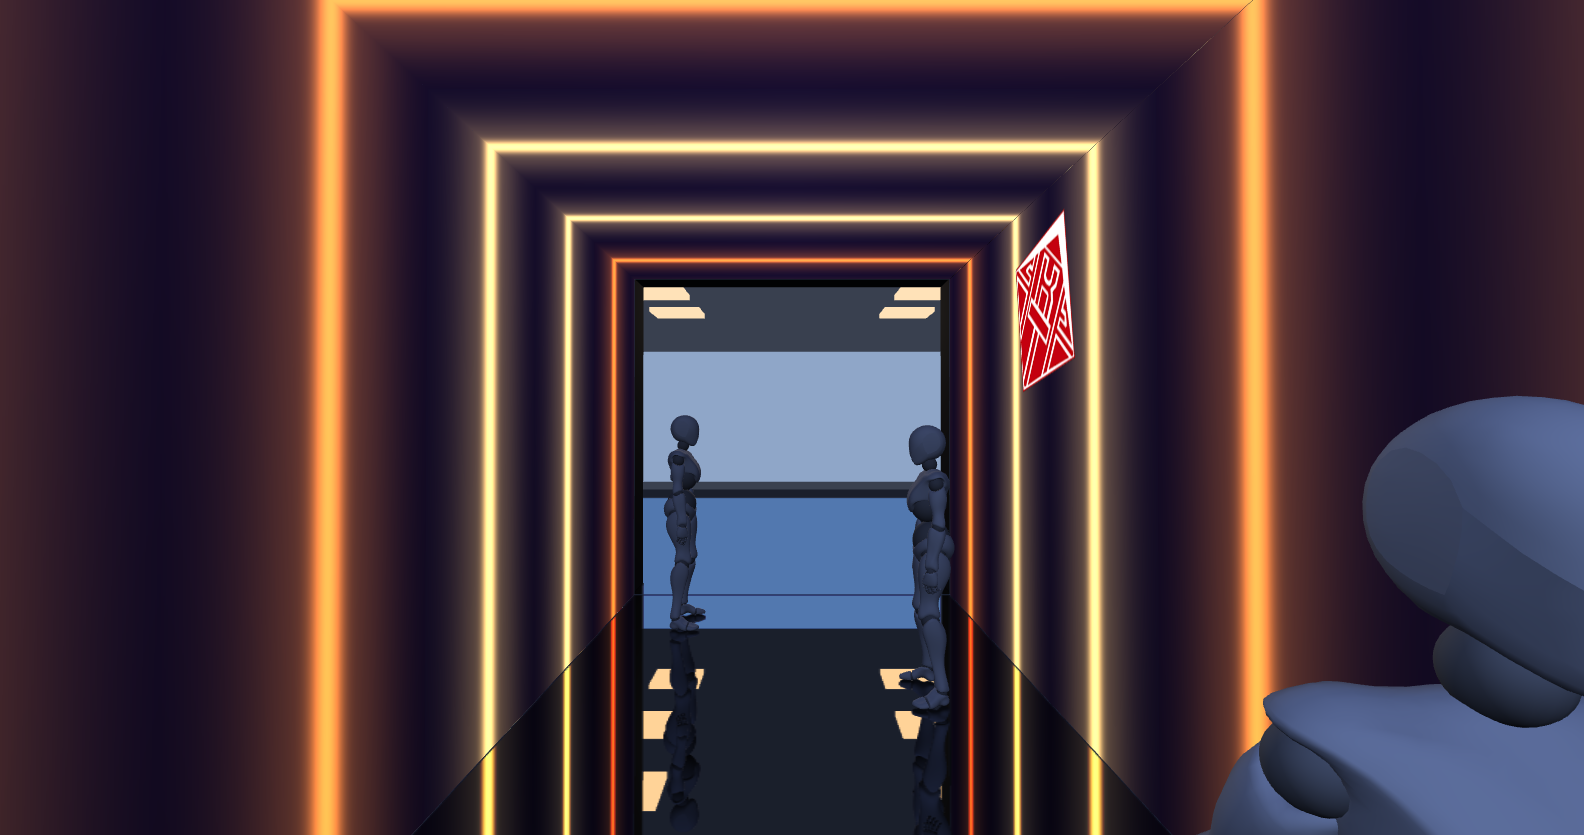
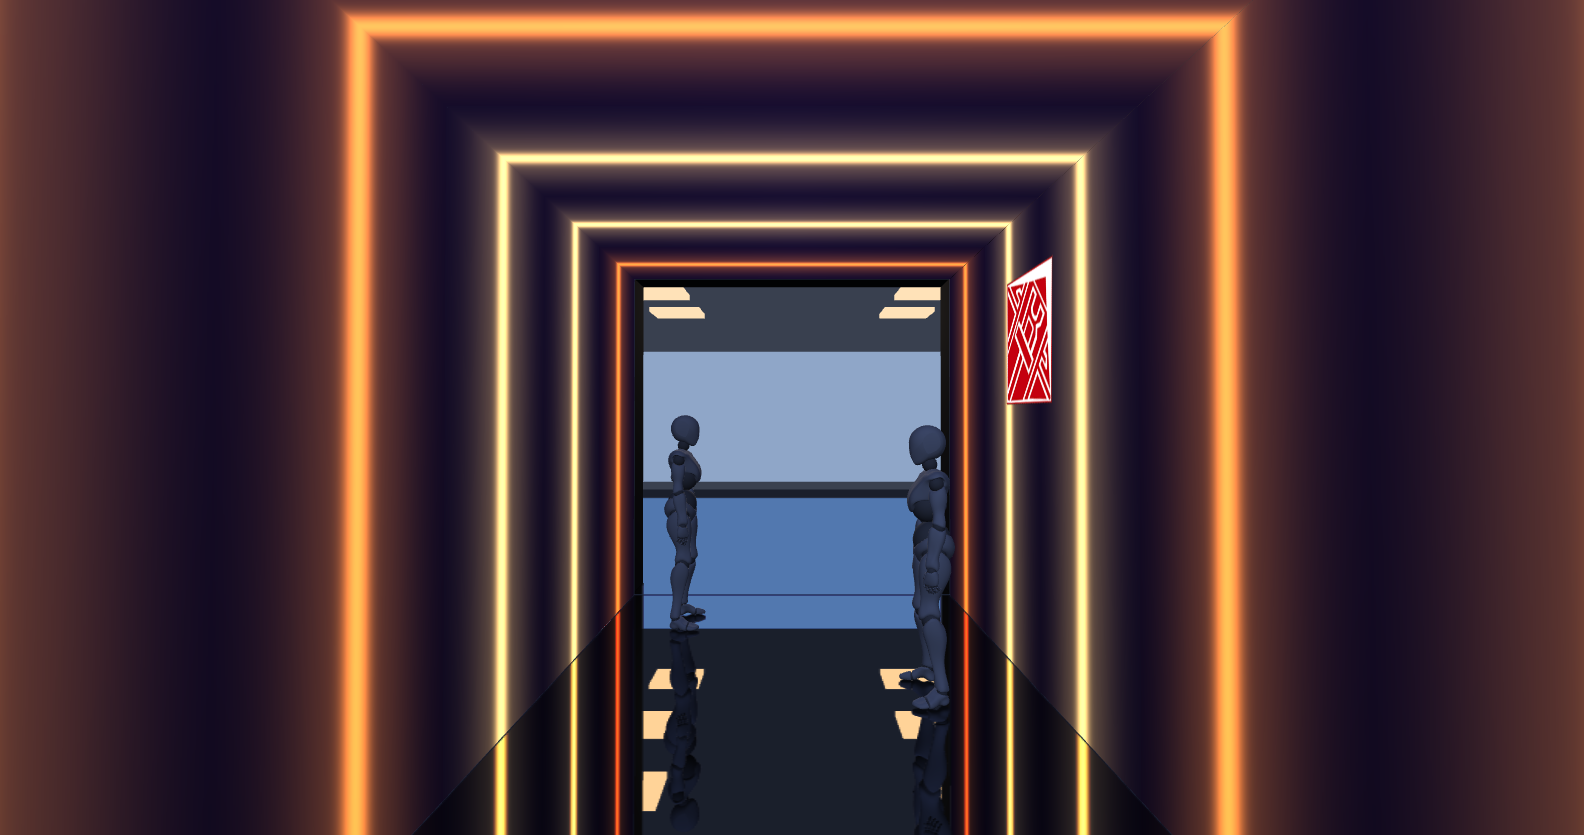
Chạm tường mức 1: sóng lan từ điểm chạm và bóng người phát sáng
- Compositor.updateTouches: suy ra điểm chạm từ vị trí người (đứng sát tường dưới ngưỡng = chạm), tuổi đếm từ lúc bắt đầu chạm; cả cửa sổ điều khiển lẫn cửa sổ xuất đều tính
- Chế độ 'touch': chấm sáng tại điểm chạm + ba vòng sóng lặp liên tục, lan tiếp sang trần và tường kia
- Chế độ 'silhouette': bóng người in lên mặt LED gần nhất, có quầng, kèm vệt trên trần
- Mục Tương tác thêm ngưỡng chạm và chiều cao điểm chạm; dự án mẫu dùng bóng người ở cảnh 2 và sóng chạm ở cảnh 5
- Bộ ảnh giới thiệu thêm hai ảnh tương tác; README mô tả đủ 5 kiểu phản ứng

diff --git a/src/render/compositor.ts b/src/render/compositor.ts
@@ -192,11 +192,14 @@ void main() {
 `;
 
 const MAX_PERSONS = 8;
+const MAX_TOUCH = 8;
 // Lớp tương tác: quầng theo khoảng cách 3D thật từ điểm trên bề mặt tới người (tâm ngang ngực),
 // sóng lan từ chân người theo tuổi của người đó. Chế độ 1/2 cộng sáng, 3 nhân (mặt nạ hé mở).
 const INTERACT_FRAG = /* glsl */ `
 ${COMMON}
 uniform vec3 uPersons[${MAX_PERSONS}]; // x, d, tuổi (s)
+uniform vec4 uTouch[${MAX_TOUCH}];     // u, v (toạ độ hầm), tuổi (s), màn (0 trái, 1 phải)
+uniform int uTouchCount;
 uniform int uCount;
 uniform int uMode;
 uniform vec3 uColor;
@@ -204,6 +207,59 @@ uniform float uRadius;
 uniform float uIntensity;
 uniform float uSpeed;
 void main() {
+  float u, v;
+  tunnel(vWorld, vScreen, u, v);
+  float P = 2.0 * uDims.y + uDims.x;
+
+  // ---- sóng lan từ ĐIỂM CHẠM trên tường: vòng tròn nở ra trong hệ toạ độ hầm nên lan tiếp sang trần ----
+  if (uMode == 4) {
+    float wave = 0.0;
+    for (int i = 0; i < ${MAX_TOUCH}; i++) {
+      if (i >= uTouchCount) break;
+      vec4 t = uTouch[i];
+      float dv = v - t.y;
+      dv = dv - P * floor(dv / P + 0.5);
+      float dist = length(vec2(u - t.x, dv));
+      float R = max(0.5, uRadius);
+      // ba vòng nối nhau, lặp liên tục chừng nào còn chạm: vòng nở tới bán kính R rồi vòng mới bắt đầu
+      for (int k = 0; k < 3; k++) {
+        float r = mod(t.z * uSpeed + float(k) * R / 3.0, R);
+        float ring = exp(-pow((dist - r) / 0.2, 2.0)) * (1.0 - r / R);
+        wave = max(wave, ring);
+      }
+      // chấm sáng ngay tại điểm chạm để thấy rõ chỗ tay đặt
+      wave = max(wave, exp(-pow(dist / 0.22, 2.0)) * 0.9);
+    }
+    gl_FragColor = vec4(uColor * wave * uIntensity, 1.0);
+    return;
+  }
+
+  // ---- bóng người phát sáng in lên mặt LED gần nhất ----
+  if (uMode == 5) {
+    float W = uDims.x, H = uDims.y;
+    float silh = 0.0;
+    for (int i = 0; i < ${MAX_PERSONS}; i++) {
+      if (i >= uCount) break;
+      vec3 pp = uPersons[i];
+      vec2 c;
+      vec2 half2;
+      float near;
+      if (vScreen < 0.5) { c = vec2(pp.y, 0.95); half2 = vec2(0.3, 0.78); near = pp.x + W * 0.5; }
+      else if (vScreen < 1.5) { c = vec2(pp.y, H + W + (H - 0.95)); half2 = vec2(0.3, 0.78); near = W * 0.5 - pp.x; }
+      else if (vScreen < 2.5) { c = vec2(pp.y, H + (pp.x + W * 0.5)); half2 = vec2(0.3, 0.3); near = max(0.0, H - 1.75); }
+      else continue;
+      float k = exp(-max(0.0, near) / max(0.2, uRadius));
+      vec2 q = abs(vec2(u, v) - c) - half2;
+      float sd = length(max(q, 0.0)) + min(max(q.x, q.y), 0.0);
+      // thân bóng + quầng mờ toả ra ngoài cho ra vẻ "phát sáng"
+      float body = smoothstep(0.34, -0.05, sd);
+      float halo = exp(-max(sd, 0.0) / 0.45) * 0.45;
+      silh = max(silh, k * min(1.0, body + halo));
+    }
+    gl_FragColor = vec4(uColor * silh * uIntensity, 1.0);
+    return;
+  }
+
   float glow = 0.0;
   float ripple = 0.0;
   for (int i = 0; i < ${MAX_PERSONS}; i++) {
@@ -332,6 +388,8 @@ class Layer {
         ...comp.sharedUniforms(),
         uPersons: { value: Array.from({ length: MAX_PERSONS }, () => new THREE.Vector3()) },
         uCount: { value: 0 },
+        uTouch: { value: Array.from({ length: MAX_TOUCH }, () => new THREE.Vector4()) },
+        uTouchCount: { value: 0 },
         uMode: { value: 1 },
         uColor: { value: new THREE.Color('#fff') },
         uRadius: { value: 1.5 },
@@ -512,11 +570,17 @@ void main() {
       const n = Math.min(MAX_PERSONS, persons.length);
       for (let i = 0; i < n; i++) arr[i].set(persons[i].x, persons[i].d, persons[i].age);
       u.uCount.value = n;
-      u.uMode.value = { spotlight: 1, ripple: 2, reveal: 3 }[ia.mode as 'spotlight' | 'ripple' | 'reveal'];
+      const touches = this.comp.touches;
+      const tarr = u.uTouch.value as THREE.Vector4[];
+      const tn = Math.min(MAX_TOUCH, touches.length);
+      for (let k = 0; k < tn; k++) tarr[k].set(touches[k].u, touches[k].v, touches[k].age, touches[k].side);
+      u.uTouchCount.value = tn;
+      u.uMode.value = { spotlight: 1, ripple: 2, reveal: 3, touch: 4, silhouette: 5 }[ia.mode as 'spotlight' | 'ripple' | 'reveal' | 'touch' | 'silhouette'];
       (u.uColor.value as THREE.Color).set(ia.color);
       u.uRadius.value = Math.max(0.2, ia.radius);
       u.uIntensity.value = ia.intensity;
       u.uSpeed.value = ia.speed;
+      // 'reveal' là mặt nạ (nhân vào hình nền); các kiểu còn lại cộng sáng lên trên
       const multiply = ia.mode === 'reveal';
       this.interactMat.blendSrc = multiply ? THREE.ZeroFactor : THREE.OneFactor;
       this.interactMat.blendDst = multiply ? THREE.SrcColorFactor : THREE.OneFactor;
@@ -621,6 +685,9 @@ export class Compositor {
   project: Project;
   /** người đang theo dõi (toạ độ sàn); cập nhật mỗi khung từ nguồn tracking hoặc từ sync */
   persons: Person[] = [];
+  /** điểm chạm tường suy ra từ vị trí người (mức 1: đứng sát tường = chạm) */
+  touches: { u: number; v: number; age: number; side: number }[] = [];
+  private readonly touchAge = new Map<string, number>();
   get interactionOn(): boolean { return this.project.interaction?.enabled ?? false; }
   private readonly uDims = new THREE.Vector3();
   private readonly uFacade = new THREE.Vector2();
@@ -725,6 +792,35 @@ export class Compositor {
       this.transitionMesh.geometry = g;
       this.resize();
     }
+  }
+
+  /**
+   * Suy ra điểm chạm tường từ vị trí người. Camera thường không đo được khoảng cách nên quy ước:
+   * người đứng trong cổng và cách một mặt tường dưới `touch.distance` mét thì coi như đang chạm mặt đó.
+   * Tuổi của điểm chạm đếm từ lúc bắt đầu chạm, để vẽ sóng lan.
+   */
+  updateTouches(dt: number): void {
+    const cfg = this.project.interaction?.touch;
+    if (!cfg || !this.interactionOn) { this.touches = []; this.touchAge.clear(); return; }
+    const { width: W, height: H, length: L } = this.project.portal;
+    const out: { u: number; v: number; age: number; side: number }[] = [];
+    const seen = new Set<string>();
+    for (const p of this.persons) {
+      if (p.d < -0.2 || p.d > L + 0.2) continue;
+      const dl = p.x + W / 2;
+      const dr = W / 2 - p.x;
+      const left = dl <= dr;
+      const near = left ? dl : dr;
+      if (near > cfg.distance) continue;
+      const key = `${p.id}:${left ? 'L' : 'R'}`;
+      seen.add(key);
+      const age = (this.touchAge.get(key) ?? 0) + dt;
+      this.touchAge.set(key, age);
+      const h = Math.max(0.1, Math.min(H - 0.1, cfg.height));
+      out.push({ u: p.d, v: left ? h : H + W + (H - h), age, side: left ? 0 : 1 });
+    }
+    for (const key of [...this.touchAge.keys()]) if (!seen.has(key)) this.touchAge.delete(key);
+    this.touches = out;
   }
 
   render(renderer: THREE.WebGLRenderer, cursor: Cursor | null, media: MediaLookup, playing: boolean): void {

diff --git a/src/model.ts b/src/model.ts
@@ -175,12 +175,14 @@ export const TRANSITION_LABEL: Record<TransitionType, string> = {
 export const TRANSITION_INDEX: Record<TransitionType, number> = { cut: 0, fade: 1, wipeIn: 2, wipeOut: 3, iris: 4, dissolve: 5, flash: 6, blinds: 7 };
 
 /** Cách một cảnh phản ứng với vị trí người trong cổng. */
-export type InteractMode = 'none' | 'spotlight' | 'ripple' | 'reveal';
+export type InteractMode = 'none' | 'spotlight' | 'ripple' | 'reveal' | 'touch' | 'silhouette';
 export const INTERACT_LABEL: Record<InteractMode, string> = {
   none: 'Không',
   spotlight: 'Quầng sáng theo người',
   ripple: 'Sóng lan từ chân người',
   reveal: 'Chỉ hé mở quanh người',
+  touch: 'Sóng lan khi chạm tường',
+  silhouette: 'Bóng người phát sáng',
 };
 export interface SceneInteract {
   mode: InteractMode;
@@ -229,9 +231,18 @@ export interface CameraCalib {
   floor: [number, number][];
 }
 
+/** "Chạm tường" mức 1: camera thường không đo được khoảng cách, nên coi là chạm khi người đứng sát tường. */
+export interface TouchConfig {
+  /** đứng gần tường dưới ngưỡng này (m) thì tính là chạm */
+  distance: number;
+  /** chiều cao điểm chạm trên tường (m) */
+  height: number;
+}
+
 export interface InteractionConfig {
   enabled: boolean;
   source: TrackSource;
+  touch: TouchConfig;
   wsUrl: string;
   camera: {
     deviceId: string;
@@ -252,6 +263,7 @@ export const defaultInteraction = (): InteractionConfig => ({
   source: 'sim',
   wsUrl: 'ws://127.0.0.1:8765',
   camera: { deviceId: '', flipX: false, minScore: 0.45, calib: null },
+  touch: { distance: 0.5, height: 1.2 },
   sim: { walkers: 2 },
 });
 
@@ -528,7 +540,7 @@ export function defaultProject(): Project {
         makeOverlay('text', { screens: wallsOnly('right'), zone: 'right', text: 'KIẾN TẠO\nNHỮNG\nKHÔNG GIAN\nTỐT ĐẸP HƠN', size: 0.62 }),
         ...facadeSet('#ffffff'),
       ],
-      interact: { ...defaultInteract(), mode: 'spotlight', color: '#9df3ff', radius: 1.4, intensity: 0.6 },
+      interact: { ...defaultInteract(), mode: 'silhouette', color: '#9df3ff', radius: 1.1, intensity: 1.4 },
     }),
     makeScene('portal', {
       name: '3. Vùng cổng thời gian', duration: 14, transition: 'iris', transitionDuration: 2.5,
@@ -553,6 +565,7 @@ export function defaultProject(): Project {
         ...facadeSet('#ffffff'),
         makeOverlay('timeline', { color: '#ffffff', accent: '#ffe27a', size: 0.5, speed: 0.06 }),
       ],
+      interact: { ...defaultInteract(), mode: 'touch', color: '#ffe27a', radius: 3.5, intensity: 1.2, speed: 2 },
       transition: 'fade',
       transitionDuration: 2,
     }),

diff --git a/src/ui.ts b/src/ui.ts
@@ -846,7 +846,13 @@ export function buildUi(app: App, hooks: Hooks): Ui {
           : 'Chưa hiệu chỉnh: camera nhận diện được nhưng chưa biết người đứng ở đâu trên sàn.'),
       );
     }
-    parts.push(trackStatus);
+    parts.push(
+      el('h2', {}, 'Chạm tường (mức 1)'),
+      rangeRow('Coi là chạm khi cách tường dưới', ia.touch.distance, 0.2, 1.5, 0.05, (v) => { ia.touch.distance = v; change(); }),
+      rangeRow('Chiều cao điểm chạm (m)', ia.touch.height, 0.3, 2.5, 0.05, (v) => { ia.touch.height = v; change(); }),
+      el('div', { class: 'hint' }, 'Camera thường không đo được khoảng cách, nên quy ước: người đứng sát tường là đang chạm. Dùng cho hiệu ứng "Sóng lan khi chạm tường".'),
+      trackStatus,
+    );
     secInteract.replaceChildren(el('div', {}, ...parts));
   }
 

diff --git a/src/output.ts b/src/output.ts
@@ -87,10 +87,14 @@ export function startOutput(): void {
   // Tay cầm cho tự kiểm tra (electron/selftest.cjs) và gỡ lỗi
   (window as unknown as { ledportalOutput: unknown }).ledportalOutput = { t: () => currentTime().t, get project() { return project; } };
 
+  let lastFrame = performance.now();
+
   function frame(): void {
     requestAnimationFrame(frame);
     if (!project || !compositor) return;
     const { t, playing } = currentTime();
+    compositor.updateTouches(Math.min(0.1, (performance.now() - lastFrame) / 1000));
+    lastFrame = performance.now();
     const cursor = state?.blackout ? null : locate(project, t);
     compositor.render(renderer, cursor, media.lookup, playing);
     const active = new Set<string>();

diff --git a/src/storage.ts b/src/storage.ts
@@ -35,7 +35,11 @@ export function normalize(raw: unknown): Project | null {
     portal,
     layout: r.layout ?? defaultLayout(portal),
     loop: active.loop,
-    interaction: { ...defaultInteraction(), ...(r.interaction ?? {}), camera: { ...defaultInteraction().camera, ...(r.interaction?.camera ?? {}) } },
+    interaction: {
+      ...defaultInteraction(), ...(r.interaction ?? {}),
+      camera: { ...defaultInteraction().camera, ...(r.interaction?.camera ?? {}) },
+      touch: { ...defaultInteraction().touch, ...(r.interaction?.touch ?? {}) },
+    },
     scenes: active.scenes,
     music: active.music,
     programs,

diff --git a/src/control.ts b/src/control.ts
@@ -366,6 +366,7 @@ export function startControl(): void {
     } else viewerAge = 0;
     if (source || viewer) sync.sendPersons(all);
     compositor.persons = all;
+    compositor.updateTouches(dt);
     // không dựng hình nhân vật cho chính người xem (camera nằm trong người đó)
     preview.setTrackedPersons(app.project.interaction.enabled ? persons : null);
     preview.showPeople = app.showPeople && !app.project.interaction.enabled;

diff --git a/CLAUDE.md b/CLAUDE.md
@@ -99,7 +99,15 @@ mô phỏng); cao 3,0 m; dài cổng 6,0 m; mặt dựng 6 × 4,2 m (trụ 1,5 m
 - Trong `Compositor`, mỗi lớp có thêm pass tương tác (`INTERACT_FRAG`): quầng = khoảng cách 3D thật từ điểm bề mặt tới người
   (tâm cao 1,1 m) nên liền qua 4 màn kể cả mặt dựng khi người còn ở ngoài; sóng lan theo tuổi người. Chế độ quầng/sóng cộng sáng
   (blend One/One), hé mở nhân (Zero/SrcColor). `driveParam` lái một tham số hiệu ứng theo tiến độ người xa nhất (d/L).
-- Tối đa 8 người trong shader (`MAX_PERSONS`). Tắt tương tác = bỏ qua pass, khung hình lại tất định.
+- Hai chế độ "mức 1" (camera thường, không đo khoảng cách):
+  `touch` — `Compositor.updateTouches(dt)` suy ra ĐIỂM CHẠM từ vị trí người: người ở trong cổng và cách một tường dưới
+  `interaction.touch.distance` thì sinh một điểm chạm tại (u = độ sâu người, v = chiều cao `touch.height` quy sang chu vi),
+  tuổi đếm từ lúc bắt đầu chạm (`touchAge` theo khoá `id:L|R`). Shader vẽ 3 vòng sóng LẶP (`mod(age*speed, radius)`)
+  cộng một chấm sáng tại điểm chạm, tất cả trong toạ độ hầm nên lan tiếp sang trần và tường kia.
+  `silhouette` — bóng người: hộp bo tròn trong (u, v) tại vị trí người trên tường gần nhất (và vệt tròn trên trần),
+  độ rõ `exp(-khoảng cách tới tường / radius)`, có quầng mờ bên ngoài.
+  Cả control.ts lẫn output.ts đều gọi `updateTouches(dt)` trước khi render (cửa sổ xuất tự tính từ `persons` nhận qua sync).
+- Tối đa 8 người và 8 điểm chạm trong shader (`MAX_PERSONS`, `MAX_TOUCH`). Tắt tương tác = bỏ qua pass, khung hình lại tất định.
 
 ## Kiến trúc (một nguồn sự thật: bản đồ pixel)
 
